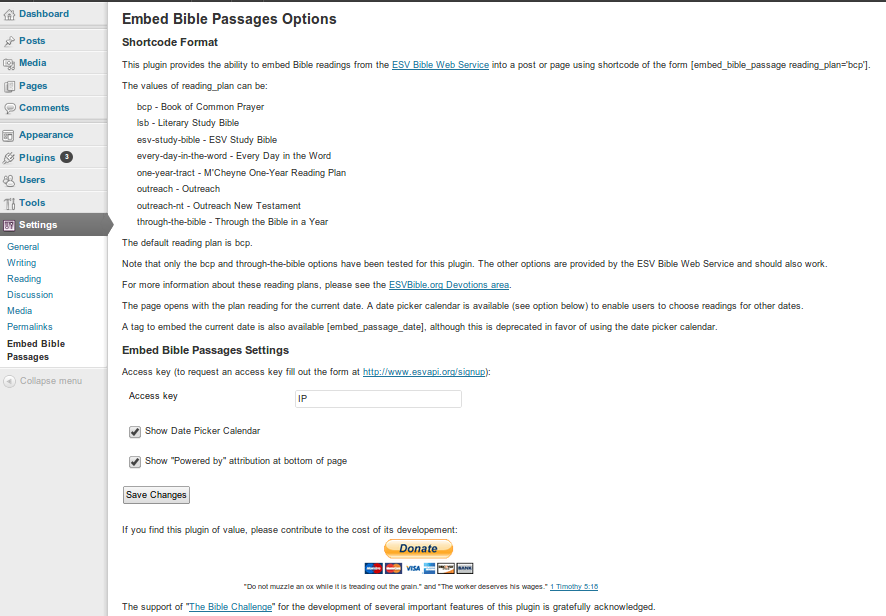
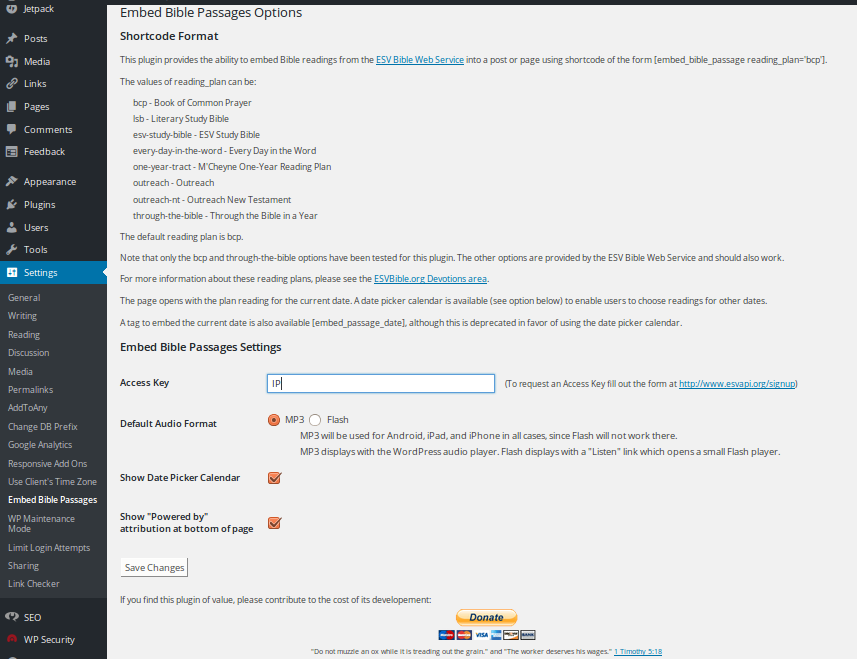
Update to version 1.4, which provides better handling of audio.
git-svn-id: https://plugins.svn.wordpress.org/embed-bible-passages/trunk@1253631 b8457f37-d9ea-0310-8a92-e5e31aec5664

Changed region(s): [[0.0, 0.0, 1.0, 1.0]]

diff --git a/css/embed-bible-passages.css b/css/embed-bible-passages.css
@@ -9,6 +9,17 @@
 	font-weight: bold;
 }
 
+.ebp_audio_player {
+	margin-left: 1.2em;
+	width: 30%;
+}
+
+.ebp_loading_img {
+	margin: 10% auto;
+	height: 25%;
+	width: 25%;
+}
+
 /* The following (down to "Mobile") are derived from http://www.gnpcb.org/esv/assets/style/text.css */
 h3 {
 	text-align: left;
@@ -112,9 +123,16 @@ object.audio {
 		float: none;
 		margin: 15px auto;
 	}
-	
+
 	.esv h2 {
 		margin-bottom: -17px;
 	}
 	
+	.ebp_audio_player {
+		margin: 0.3em 0 0.7em 0;
+		width: 95%;
+		float: none;
+	}
+	
 }
+

diff --git a/embed-bible-passages-class.inc.php b/embed-bible-passages-class.inc.php
@@ -9,6 +9,7 @@ class EmbedBiblePassages {
 	protected $esv_copyright	= 'Scripture taken from The Holy Bible, English Standard Version. Copyright &copy;2001 by <a href="http://www.crosswaybibles.org" target="_blank">Crossway Bibles</a>, a publishing ministry of Good News Publishers. Used by permission. All rights reserved. Text provided by the <a href="http://www.gnpcb.org/esv/share/services/" target="_blank">Crossway Bibles Web Service</a>. Reader: David Cochran Heath.';
 	protected $access_key		= 'IP';
 	protected $ajax_url			= '';
+	protected $audio_format		= 'flash'; // Defaults to Flash for backwards compatibity
 	protected $date_format		= 'l j F Y';
 	protected $plan_source_link	= 'http://www.esvapi.org/v2/rest/readingPlanQuery?include-headings=false';
 	protected $plugin_url		= '';
@@ -33,7 +34,12 @@ class EmbedBiblePassages {
 	
 	public function __construct () {
 		$this->document_root	= 'http://'.$_SERVER['SERVER_NAME'];
-		$this->plugin_url		= plugins_url('/embed-bible-passages/');
+		if (function_exists('plugins_url')) {
+			$this->plugin_url = plugins_url('/embed-bible-passages/');
+		} else {
+			// For earlier WordPress versions
+			$this->plugin_url = $this->document_root.'/wp-content/plugins/embed-bible-passages/';
+		}
 		$this->access_key		= get_option('embed_bible_passages_access_key');
 		if (!$this->access_key) {
 			$this->access_key = 'IP';
@@ -43,6 +49,11 @@ class EmbedBiblePassages {
 		if ('' == $this->show_poweredby) {
 			$this->show_poweredby = false;
 			update_option('embed_bible_passages_show_poweredby', $this->show_poweredby);
+		}
+		$this->audio_format		= get_option('embed_bible_passages_audio_format');
+		if ('' == $this->audio_format) {
+			$this->audio_format = 'flash';
+			update_option('embed_bible_passages_audio_format', $this->audio_format);
 		}
 		$this->use_calendar		= get_option('embed_bible_passages_use_calendar');
 		if ('' == $this->use_calendar) {
@@ -61,23 +72,38 @@ class EmbedBiblePassages {
 			$page_for_settings		= 'embed_bible_passages_plugin';
 			$section_for_settings	= 'embed_bible_passages_section';
 			add_settings_section($section_for_settings, 'Embed Bible Passages Settings', array(&$this, 'embed_bible_passages_section_heading'), $page_for_settings);
-			add_settings_field('embed_bible_passages_access_key_id', 'Access key', array(&$this, 'embed_bible_passages_setting_values'), $page_for_settings, $section_for_settings);
+			add_settings_field('embed_bible_passages_access_key_id', 'Access Key', array(&$this, 'embed_bible_passages_acceaa_key_value'), $page_for_settings, $section_for_settings);
+			add_settings_field('embed_bible_passages_audio_format_id', 'Default Audio Format', array(&$this, 'embed_bible_passages_audio_format_value'), $page_for_settings, $section_for_settings);
+			add_settings_field('embed_bible_passages_use_calendar_id', 'Show Date Picker Calendar', array(&$this, 'embed_bible_passages_use_calendar_value'), $page_for_settings, $section_for_settings);
+			add_settings_field('embed_bible_passages_show_powered_by_id', 'Show "Powered by" attribution at bottom of page', array(&$this, 'embed_bible_passages_show_powered_by_value'), $page_for_settings, $section_for_settings);
 			register_setting('embed_bible_passages_settings', 'embed_bible_passages_access_key', 'wp_filter_nohtml_kses');
-			register_setting('embed_bible_passages_settings', 'embed_bible_passages_show_poweredby');
+			register_setting('embed_bible_passages_settings', 'embed_bible_passages_audio_format');
 			register_setting('embed_bible_passages_settings', 'embed_bible_passages_use_calendar');
+			register_setting('embed_bible_passages_settings', 'embed_bible_passages_show_poweredby');
 		}
 	}
 
 	public function embed_bible_passages_section_heading () {
-		_e('Access key (to request an access key fill out the form at <a href="http://www.esvapi.org/signup" target="_blank" title="ESV Bible Web Service - Request an API Key">http://www.esvapi.org/signup</a>):');
+		_e('');
 	}
 
-	public function embed_bible_passages_setting_values () {
+	public function embed_bible_passages_acceaa_key_value () {
 		echo '<input id="embed_bible_passages_access_key_input" name="embed_bible_passages_access_key" size="35" type="text" value="'.$this->access_key.'" />';
-		echo '<div style="margin: 20px 0 10px -220px;"><input name="embed_bible_passages_use_calendar" id="embed_bible_passages_use_calendar_id" type="checkbox" value="1" class="code" '.checked(true, $this->use_calendar, false).' /> Show Date Picker Calendar</div>';
-		echo '<div style="margin: 20px 0 10px -220px;"><input name="embed_bible_passages_show_poweredby" id="embed_bible_passages_show_poweredby_id" type="checkbox" value="1" class="code" '.checked(true, $this->show_poweredby, false).' /> Show "Powered by" attribution at bottom of page</div>';
+		_e('<span style="padding-left: 15px; font-size: 0.9em; text-align: right;">(To request an Access Key fill out the form at <a href="http://www.esvapi.org/signup" target="_blank" title="ESV Bible Web Service - Request an API Key">http://www.esvapi.org/signup</a>)</span>');
 	}
 
+	public function embed_bible_passages_audio_format_value () {
+		echo '<input name="embed_bible_passages_audio_format" id="embed_bible_passages_audio_format_id" type="radio" value="mp3" class="code" '.checked('mp3', $this->audio_format, false).' /> MP3&nbsp;&nbsp;<input name="embed_bible_passages_audio_format" id="embed_bible_passages_audio_format_id" type="radio" value="flash" class="code" '.checked('flash', $this->audio_format, false).' /> Flash<ul style="margin: 5px 0 -20px 50px;"><li>MP3 will be used for Android, iPad, and iPhone in all cases, since Flash will not work there.</li><li>MP3 displays with the WordPress audio player. Flash displays with a "Listen" link which opens a small Flash player.</li></ul>';
+	}
+	
+	public function embed_bible_passages_use_calendar_value () {
+		echo '<input name="embed_bible_passages_use_calendar" id="embed_bible_passages_use_calendar_id" type="checkbox" value="1" class="code" '.checked(true, $this->use_calendar, false).' />';
+	}
+	
+	public function embed_bible_passages_show_powered_by_value () {
+		echo '<input name="embed_bible_passages_show_poweredby" id="embed_bible_passages_show_poweredby_id" type="checkbox" value="1" class="code" '.checked(true, $this->show_poweredby, false).' />';
+	}
+	
 	public function admin_add_page() {
 		add_options_page('Embed Bible Passages Settings', 'Embed Bible Passages', 'manage_options', 'embed_bible_passages_plugin', array(&$this, 'draw_options_page'));
 	}
@@ -139,7 +165,7 @@ class EmbedBiblePassages {
 			<script>
 				var ajaxurl = '{$this->ajax_url}{$this->query_string}&requested_date=';
 				
-				// Load Scriptures initially
+				// Load Scriptures initially with the date set on the client's computer.
 				var ebp_date_obj = new Date();
 				jQuery('#scriptures').load(ajaxurl + encodeURI(ebp_date_obj.toDateString()));";
 		if ($this->use_calendar) {
@@ -167,8 +193,8 @@ class EmbedBiblePassages {
 			$reading_plan = 'bcp'; // default
 		}
 		$this->query_string = "reading-plan=$reading_plan";
-		// Use mp3 instead of Flash if iPad or iPhone
-		if (strpos($_SERVER["HTTP_USER_AGENT"], 'iPhone') !== false || strpos($_SERVER["HTTP_USER_AGENT"], 'iPad') !== false) {
+		// If the audio format setting is mp3 and, also, for Android, iPad, or iPhone use mp3
+		if ('mp3' == $this->audio_format || strpos($_SERVER["HTTP_USER_AGENT"], 'Android') !== false || strpos($_SERVER["HTTP_USER_AGENT"], 'iPad') !== false || strpos($_SERVER["HTTP_USER_AGENT"], 'iPhone') !== false) {
 			$this->query_string .= '&audio-format=mp3';
 		}
 		return $this->getBiblePassage();
@@ -188,6 +214,13 @@ class EmbedBiblePassages {
 		$txt = trim(curl_exec($ch));
 		curl_close($ch);
 		if ($txt) {
+			if ('mp3' == $this->audio_format) {
+				$txt = preg_replace("|(<small class=\"audio\">\(<a href=\")([^\"]+\")(>Listen</a>\)</small>)|m", "<audio title=\"Listen\" controls=\"\" class=\"ebp_audio_player\">
+					<source src=\"$2 type=\"audio/mp3\"></source>
+					<embed src=\"$2 type=\"audio/mp3\"></embed>
+					$1$2 target=\"_blank\"$3
+				</audio>", $txt);
+			}
 			if ($this->use_calendar) {
 				parse_str($this->query_string);
 				if ($date) {
@@ -211,12 +244,13 @@ class EmbedBiblePassages {
 		} else {
 			$rtn_str = $error_message;
 		}
+		$scriptures_div = '<div id="scriptures"><img title="Please wait until screen completes loading." class="ebp_loading_img" src="'.$this->plugin_url.'images/ajax-loading.gif"></div>';
 		if ($query_string) {
-			return $rtn_str; // with calendar, and loaded with calendar selection
+			return $rtn_str; // with calendar, and loaded with calendar selection 
 		} elseif ($this->use_calendar) {
-			return '<div title="'.__('Click on a date to open the readings for that day.').'" id="datepicker"></div><div id="scriptures"></div>'; // with calendar, but loaded without calendar selection
+			return '<div title="'.__('Click on a date to open the readings for that day.').'" id="datepicker"></div>'.$scriptures_div; // with calendar, but loaded without calendar selection
 		} else {
-			return '<div id="scriptures"></div>'; // no calendar
+			return $scriptures_div; // no calendar
 		}
 	}
 	

diff --git a/embed-bible-passages.php b/embed-bible-passages.php
@@ -1,14 +1,14 @@
 <?php
 /**
  * @package Embed Bible Passages
- * @version 1.3
+ * @version 1.4
  */
 
 /*
 Plugin Name: Embed Bible Passages
 Plugin URI:
 Description: Provides the ability to embed Bible Reading Plans from the ESV Bible Web Service (http://www.esvapi.org/api#readingPlanQuery) into a post or page using shortcode of the form [embed_bible_passage reading_plan='bcp'].
-Version: 1.3
+Version: 1.4
 Author: M.D. Green
 Author URI: http://www.saesolved.com/
 
